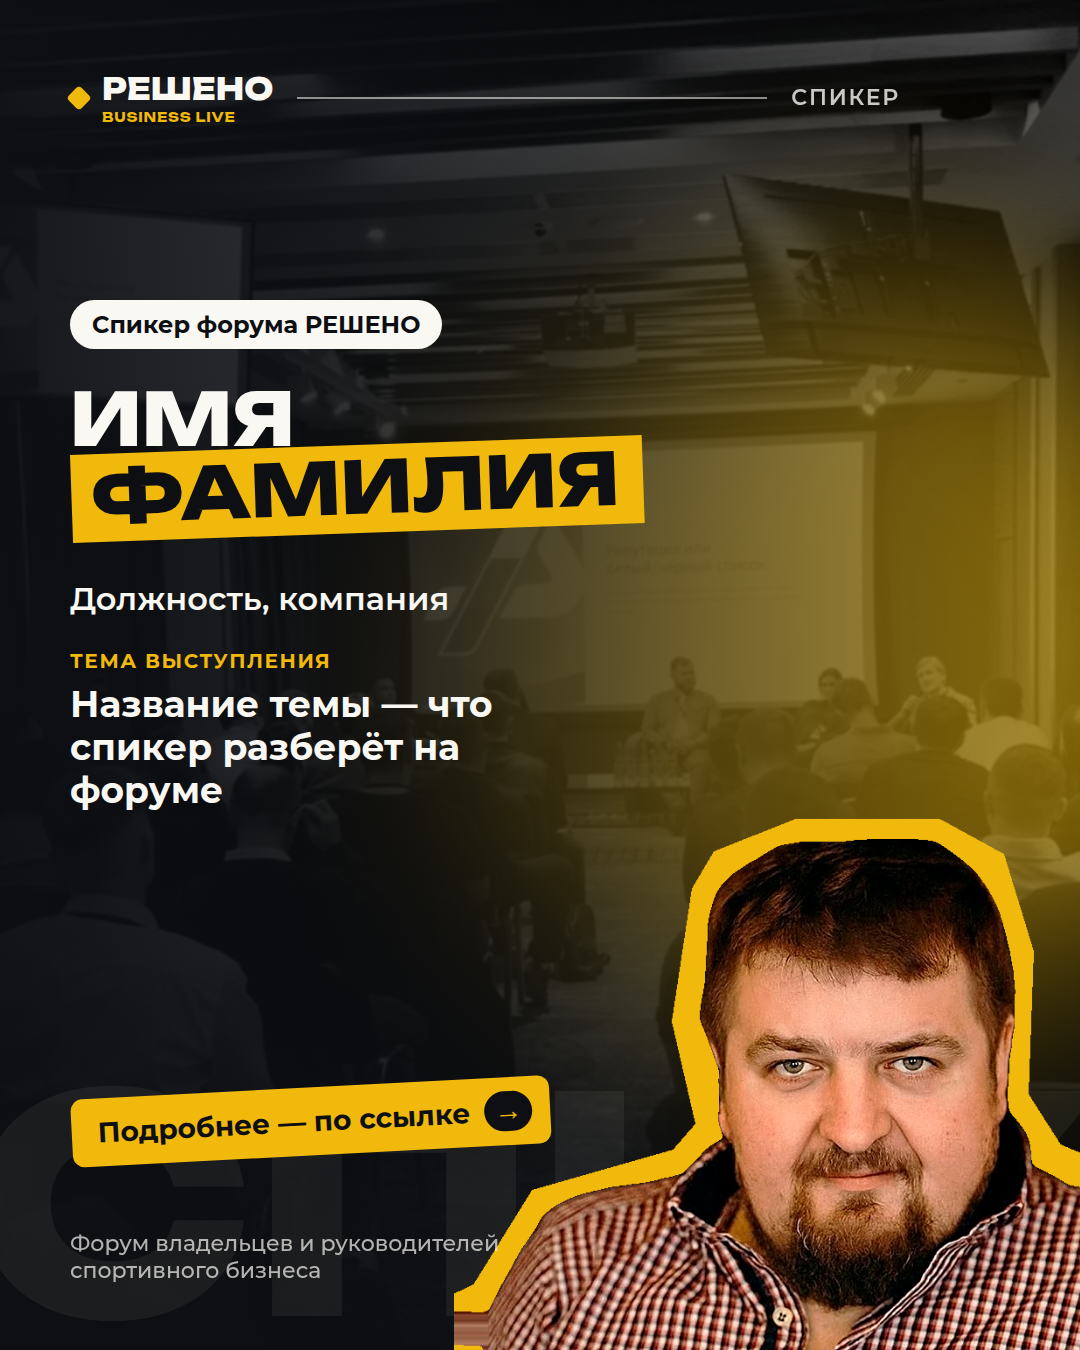
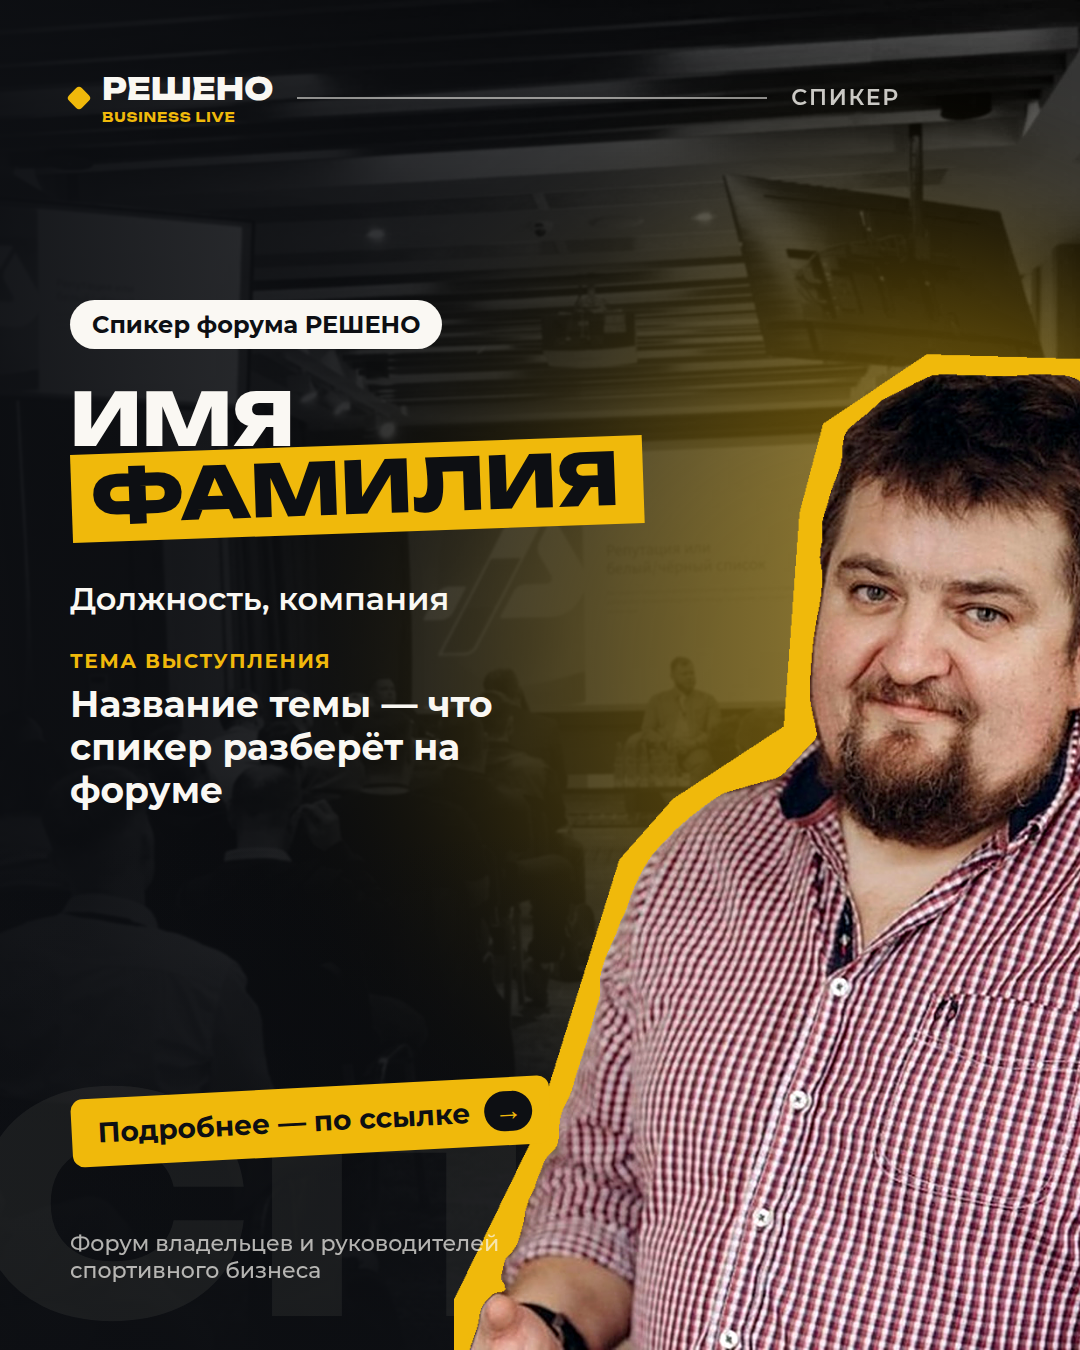
Speaker 4: new photo; cut-out keeps only the main person
Claude-Session: https://claude.ai/code/session_015DfynR8ViCbDyQMuNVS5SH

Changed region(s): [[0.3972, 0.2489, 1.0, 1.0]]

diff --git a/speakers/src/add.py b/speakers/src/add.py
@@ -6,12 +6,12 @@ zoom > 1 lets the person be wider than the frame (sides cropped) — for tight h
 import sys, numpy as np
 from PIL import Image, ImageEnhance, ImageFilter
 from rembg import remove
-from prep import cutout, sess
+from prep import cutout, sess, largest
 
 W, H = 853, 1280
 name = sys.argv[1]; zoom = float(sys.argv[2]) if len(sys.argv) > 2 else 1.0
 im = Image.open(f'src/{name}.jpg').convert('RGB')
-a = np.array(remove(im, session=sess))[:, :, 3]
+a = largest(np.array(remove(im, session=sess))[:, :, 3])
 ys, xs = np.where(a > 128); x0, x1, y0, y1 = xs.min(), xs.max(), ys.min(), ys.max()
 bw, bh = x1 - x0, y1 - y0
 s = min(zoom * W * 0.96 / bw, H * 0.92 / bh)
@@ -23,7 +23,7 @@ pad = [(max(0, top), max(0, H - top - arr.shape[0])), (max(0, left), max(0, W - 
 arr = np.pad(arr, pad, mode='edge')
 oy, ox = max(0, -top), max(0, -left)
 Image.fromarray(arr[oy:oy + H, ox:ox + W]).save(f'src/{name}_fit.jpg', quality=95)
-cutout(f'src/{name}_fit.jpg', name)
+cutout(f'src/{name}_fit.jpg', name, only_largest=True)
 # colour version, same mask
 c = Image.open(f'src/{name}_fit.jpg').convert('RGB')
 c = ImageEnhance.Color(ImageEnhance.Contrast(c).enhance(1.1)).enhance(1.08).filter(ImageFilter.UnsharpMask(2, 60, 2))

diff --git a/speakers/src/prep.py b/speakers/src/prep.py
@@ -6,10 +6,17 @@ from rembg import remove, new_session
 AMBER = (240, 185, 11)
 sess = new_session('isnet-general-use')
 
-def cutout(src, name):
+def largest(a):
+    """Keep only the biggest foreground blob (drops people in the background)."""
+    n, lab, st, _ = cv2.connectedComponentsWithStats((a > 128).astype(np.uint8), 8)
+    if n > 2: a = a * (lab == 1 + np.argmax(st[1:, 4]))
+    return a.astype(np.uint8)
+
+def cutout(src, name, only_largest=False):
     im = Image.open(src).convert('RGB')
     rgba = remove(im, session=sess, post_process_mask=True)
     a = np.array(rgba)[:, :, 3].copy()
+    if only_largest: a = largest(a)
     # fill small interior holes (e.g. dark patches on clothing the model dropped)
     inv = (a < 128).astype(np.uint8)
     n, lab, stats, _ = cv2.connectedComponentsWithStats(inv, 4)
